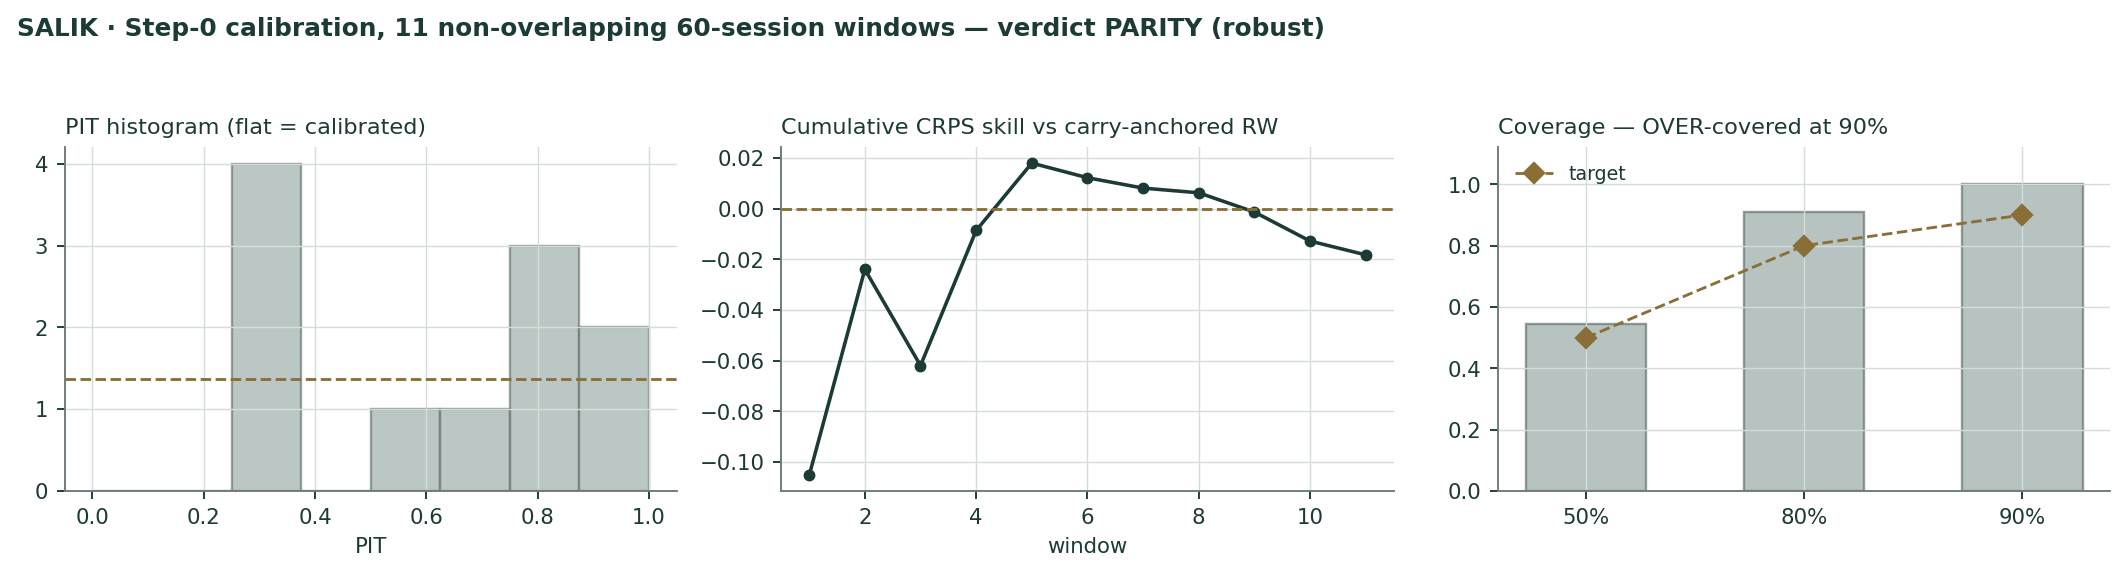
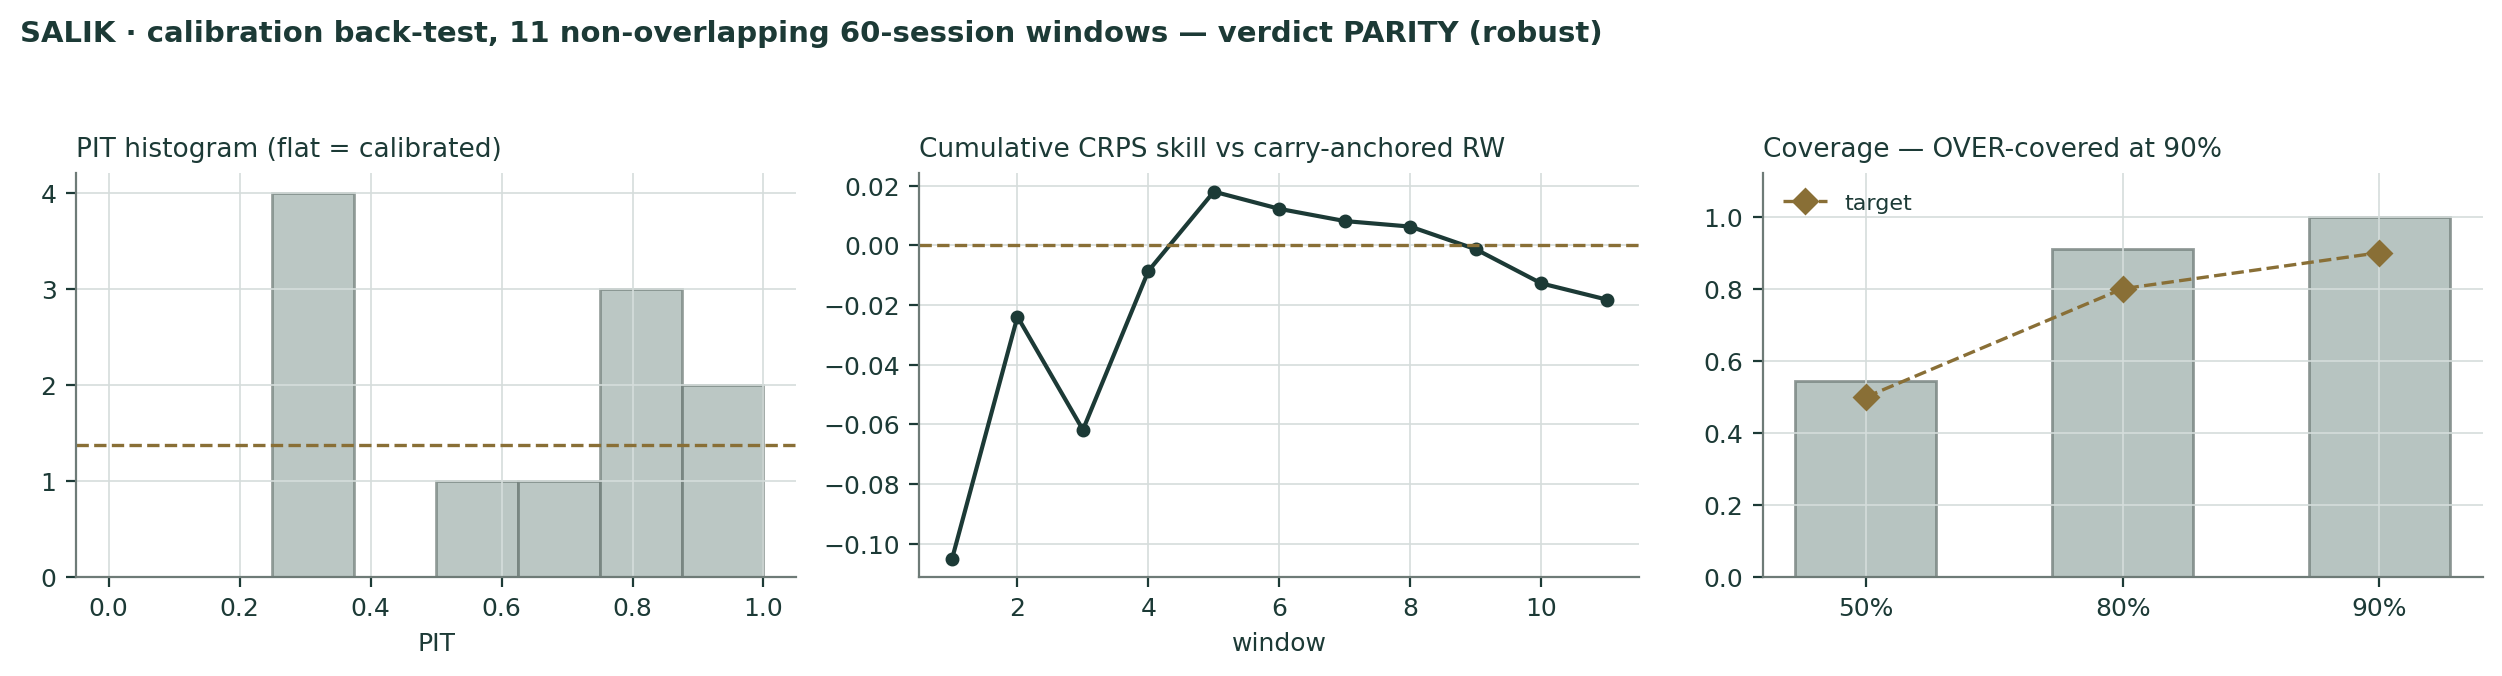
Fix calibration_SALIK.png contrast — solid white background + dark ink text (was transparent, invisible on the dark-theme ledger card); also rebuilds the study/model/PDF, and removes a 'Step-0' label baked into the chart's own pixels
Same bug the BURJEEL calibration chart had (fixed 62f6336): the PNG was
generated with a transparent background and dark-teal text, matplotlib's
default for figures embedded in the white-background Word study. On the
live site's dark-theme ledger card, dark text on a transparent (effectively
dark) background is unreadable — exactly what the screenshot showed.

Fixed at the source (salik_figs2.py), not just the exported file, so it
cannot regress on the next rebuild: opaque white facecolor set on both the
figure and every subplot, transparent=False on save, resolution bumped
110->200dpi (2127x574 -> 2502x676) matching the BURJEEL fix's resolution
bump.

Also caught in the same pass: the chart's suptitle had 'Step-0 calibration'
baked directly into its pixels. Every earlier procedure-reference scan in
this session searched DOCX/XLSX TEXT RUNS ONLY — a PNG has no text runs, so
this one was invisible to every previous check despite being live on the
public site. Corrected to 'calibration back-test' to match the wording used
everywhere else. Study, model and PDF rebuilt from the corrected figure
script; Excel reconciled (91 formulas, 0 errors) and DCF/weighted values
confirmed unchanged (4.4899 / 4.6193) before this commit.

Cache-bust: SALIK's four file links and the shared calibration-image
template (ledger.html, used by all tickers) bumped to 20260712h, ahead of
the site's current 20260712g baseline.

diff --git a/assets/data.js b/assets/data.js
@@ -115,10 +115,10 @@ const TICKERS = {
       bear: "Losing the 50-day near AED 5.72 exposes AED 5.25 and then the 52-week low at 4.99."
     },
     files: {
-      study: "files/SALIK_Valuation_Study_11-07-2026_public.docx?v=20260712g",
-      model: "files/SALIK_Valuation_Model_11072026_public.xlsx?v=20260712g",
-      pdf:   "files/SALIK_Valuation_Study_11-07-2026_public.pdf?v=20260712g",
-      biblio:"files/SALIK_Source_Register_11-07-2026.docx?v=20260712g"
+      study: "files/SALIK_Valuation_Study_11-07-2026_public.docx?v=20260712h",
+      model: "files/SALIK_Valuation_Model_11072026_public.xlsx?v=20260712h",
+      pdf:   "files/SALIK_Valuation_Study_11-07-2026_public.pdf?v=20260712h",
+      biblio:"files/SALIK_Source_Register_11-07-2026.docx?v=20260712h"
     }
   },
   DIB: {

diff --git a/ledger.html b/ledger.html
@@ -272,11 +272,11 @@ tabPanels.innerHTML = `<div class="tab-panel active" id="panel-all">
   <p class="muted" style="margin-top:8px"><b id="sum-${t}"></b></p>
   ${CAL_UNTESTED.has(t) ? CALIB_UNTESTED_BANNER + `<h3 style="font-size:var(--fs-h3);margin:24px 0 4px">What this forecast IS validated on</h3>
   <p class="muted" style="margin:0 0 12px;max-width:760px">There is no five-year backtest for this stock — it has not been listed long enough to have one. So instead of a backtest it does not have, here is the evidence it actually rests on: why the test cannot be run, what the market panel behind the cone scored, and where this stock sits relative to that panel. Methodology transparency; it does not count toward the live score above.</p>
-  <div class="card bt-fig"><img alt="${t} — why there is no name-level calibration, what the cone is validated on, and how the UAE market panel scored" src="assets/calibration_${t}.png?v=20260712g"></div>` : ``}
+  <div class="card bt-fig"><img alt="${t} — why there is no name-level calibration, what the cone is validated on, and how the UAE market panel scored" src="assets/calibration_${t}.png?v=20260712h"></div>` : ``}
   ${HAS_BACKTEST.has(t) ? `<h3 style="font-size:var(--fs-h3);margin:24px 0 4px">Five-year calibration backtest</h3>
   <p class="muted" style="margin:0 0 12px;max-width:760px">The same model replayed on ${t}’s past five years — each quarter’s 3-month forecast cone against the price that actually printed, the PIT histogram (flat = well-calibrated), and how often each band actually held. Methodology validation; it does not count toward the live score above.</p>
   ${CAL_FAIL.has(t) && !BANNER_BAKED.has(t) ? CALIB_FAIL_BANNER : (CAL_MATCH.has(t) ? CALIB_MATCH_BANNER : ``)}
-  <div class="card bt-fig"><img alt="${t} five-year calibration backtest — quarterly cone replay, PIT histogram, and band coverage vs target" src="assets/calibration_${t}.png?v=20260712g"></div>` : ``}
+  <div class="card bt-fig"><img alt="${t} five-year calibration backtest — quarterly cone replay, PIT histogram, and band coverage vs target" src="assets/calibration_${t}.png?v=20260712h"></div>` : ``}
 </div>`).join("");
 
 // Build all panel